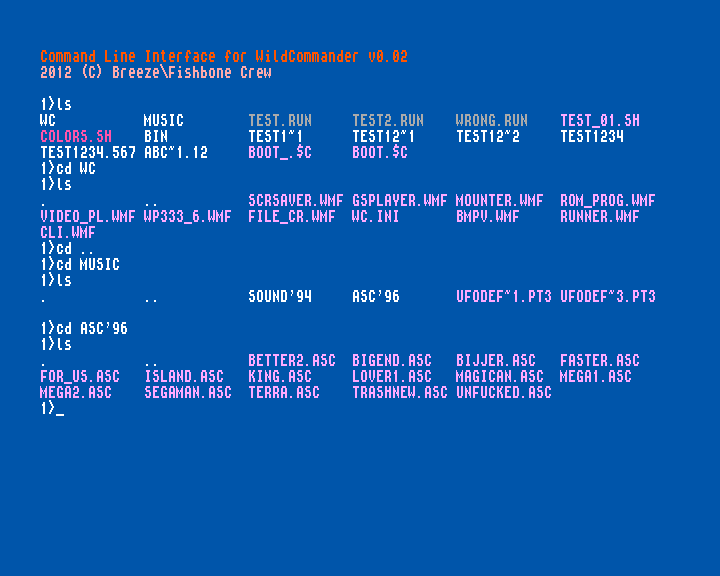
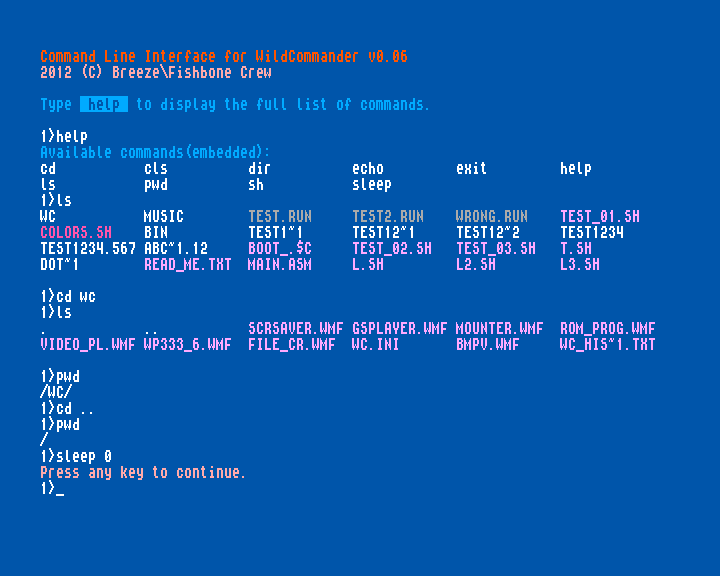
update screenshots

diff --git a/README.md b/README.md
@@ -7,6 +7,9 @@ Command Line Interface (further simply CLi) is plugin for WildCommander.
 CLi extend interface WildCommander with help command line and few commands, also
 allows you to run simplified version of SH scripts.
 
+<img src="https://raw.github.com/acidrave/CLi-for-WildCommander/master/misc/screenshot2.png"
+ alt="CLi Example" title="Command Line Interface for WildCommander" align="center" />
+
 WildCommander written by [Budder](http://budder.narod.ru/) for [PentEvo/ZX Evolution](http://www.nedopc.com/zxevo/zxevo_eng.php) (Modern ZX Spectrum's clone).
 More information can be found at the bottom of this readme file.
 

diff --git a/HISTORY.md b/HISTORY.md
@@ -1,7 +1,7 @@
 ## 0.06 (2012-10-09)
 
 * Full code refactoring
-* Added scroll for output (thx 4 budder)
+* Added scroll for output (tnx 4 budder)
 
 ## 0.05 (2012-10-02)
 
